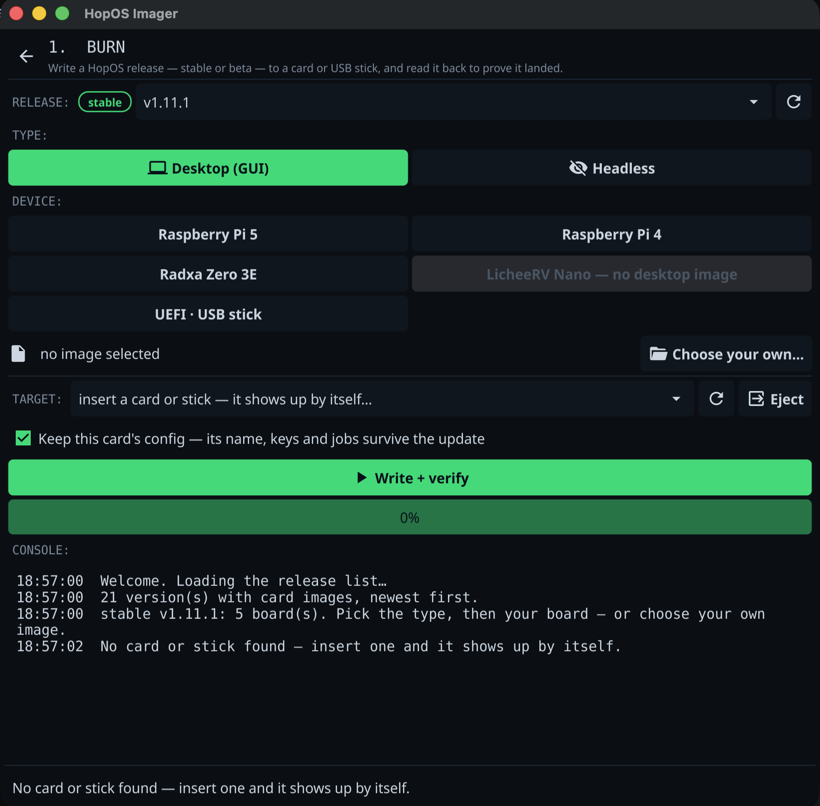
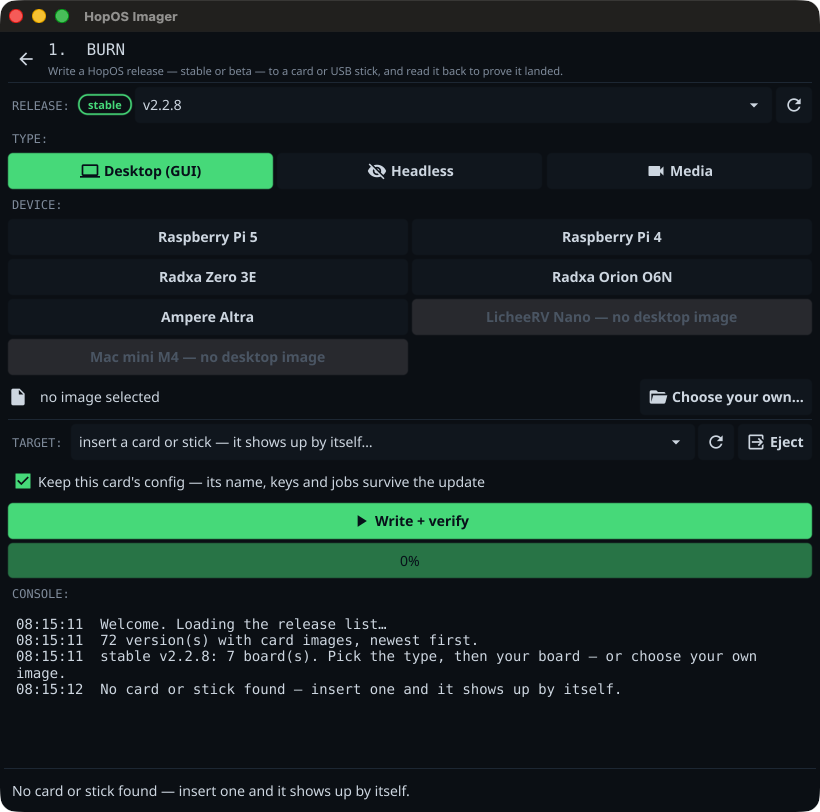
BURN kent drie smaken: Desktop, Headless en Media
HopOS v2.2.8 levert een derde smaak, hopos-o6n-media.img.gz: de GUI plus de
video-codec (Linlon V8 VPU), USB-optische drives en de codec-ABI — net als
headless een link-grens, geen instelling. De parser kende alleen -headless, dus
zonder dit stond "o6n-media" als los board in het grid, onder Desktop.

Nu is er een derde knop, Media, en draagt het gekozen image een media-tag in
fosfor. Media heeft dezelfde config als desktop; het config-venster kan het
verschil dus niet zien, en voor die ene tag beslist de naam mee — maar alleen
bovenop een config die beeld claimt.

De naamconventie staat op één plek: release.SplitFlavor vervangt de
ongebruikte release.Flavor, die media ook niet kende. En de twee nieuwe UEFI-
boards van dezelfde release staan bij naam in het grid: Radxa Orion O6N en
Ampere Altra, ná de Zero 3E en vóór de headless-only boards. "uefi" blijft in
de lijst voor oudere versies die de generieke stick nog dragen.

diff --git a/main.go b/main.go
@@ -80,12 +80,12 @@ const bunny = `   (\(\
    o_(")(")   --------------
               the Go-only OS`
 
-// boardRow is één board uit de release: dezelfde kaart in (maximaal) twee
+// boardRow is één board uit de release: dezelfde kaart in (maximaal) drie
 // smaken. De knoppen tonen boards; de smaak-keuze erboven kiest het asset.
 type boardRow struct {
 	id       string
 	display  string
-	byFlavor map[string]release.Asset // "desktop" / "headless"
+	byFlavor map[string]release.Asset // "desktop" / "headless" / "media"
 }
 
 // boardNames maakt van de asset-id's mensennamen; onbekende id's tonen de id
@@ -94,31 +94,33 @@ var boardNames = map[string]string{
 	"rpi5":        "Raspberry Pi 5",
 	"rpi4":        "Raspberry Pi 4",
 	"radxa-zero3": "Radxa Zero 3E",
+	"o6n":         "Radxa Orion O6N",
+	"altra":       "Ampere Altra",
 	"licheerv":    "LicheeRV Nano",
 	"m4":          "Mac mini M4",
 	"uefi":        "UEFI · USB stick",
 }
 
-var boardOrder = []string{"rpi5", "rpi4", "radxa-zero3", "licheerv", "m4", "uefi"}
+var boardOrder = []string{"rpi5", "rpi4", "radxa-zero3", "o6n", "altra", "licheerv", "m4", "uefi"}
 
 type ui struct {
 	win fyne.Window
 
 	// BURN
-	releases                []release.Release
-	relRow                  *fyne.Container // de regel bovenin, herschikt als de pil verschijnt
-	relChan                 *tagPill        // stable of beta, gekleurd
-	relSel                  *widget.Select  // het versienummer erachter — en de keuze
-	relTag                  string
-	btnDesktop, btnHeadless *widget.Button
-	flavorVal               string
-	boardBox                *fyne.Container
-	boards                  []boardRow
-	selBoard                string
-	imageLbl                *widget.Label
-	imageTags               *fyne.Container
-	imagePath               string
-	keepCfg                 *widget.Check
+	releases   []release.Release
+	relRow     *fyne.Container // de regel bovenin, herschikt als de pil verschijnt
+	relChan    *tagPill        // stable of beta, gekleurd
+	relSel     *widget.Select  // het versienummer erachter — en de keuze
+	relTag     string
+	flavorBtns map[string]*widget.Button // "desktop" / "headless" / "media"
+	flavorVal  string
+	boardBox   *fyne.Container
+	boards     []boardRow
+	selBoard   string
+	imageLbl   *widget.Label
+	imageTags  *fyne.Container
+	imagePath  string
+	keepCfg    *widget.Check
 
 	// CONFIGURE
 	cfgEdit   *cfgEditor // gekleurd tekstveld (editor.go) — altijd bewerkbaar
@@ -382,13 +384,21 @@ func (u *ui) burnTab() fyne.CanvasObject {
 		u.relSel,
 	)
 
-	// Twee ONMISKENBARE knoppen (Derek 06-08: "die keuze moet echt
+	// ONMISKENBARE knoppen (Derek 06-08: "die keuze moet echt
 	// duidelijker!"): de gekozen smaak staat gevuld fosforgroen, de andere
-	// panel-grijs — een segmented control, geen radiootje.
-	u.btnDesktop = widget.NewButtonWithIcon("Desktop (GUI)", theme.ComputerIcon(), func() { u.setFlavor("desktop") })
-	u.btnHeadless = widget.NewButtonWithIcon("Headless", theme.VisibilityOffIcon(), func() { u.setFlavor("headless") })
+	// panel-grijs — een segmented control, geen radiootje. Media is de derde
+	// sinds HopOS v2.2.8: de GUI plus video-codec en optische drives, en net
+	// als headless een link-grens, geen instelling.
+	u.flavorBtns = map[string]*widget.Button{
+		"desktop":  widget.NewButtonWithIcon("Desktop (GUI)", theme.ComputerIcon(), func() { u.setFlavor("desktop") }),
+		"headless": widget.NewButtonWithIcon("Headless", theme.VisibilityOffIcon(), func() { u.setFlavor("headless") }),
+		"media":    widget.NewButtonWithIcon("Media", theme.MediaVideoIcon(), func() { u.setFlavor("media") }),
+	}
 	u.flavorVal = "desktop" // de default van elke release
-	flavorRow := container.NewGridWithColumns(2, u.btnDesktop, u.btnHeadless)
+	flavorRow := container.NewGridWithColumns(len(flavorOrder))
+	for _, fl := range flavorOrder {
+		flavorRow.Add(u.flavorBtns[fl])
+	}
 
 	// Twee kolommen board-knoppen — afbeeldingen van de bordjes kunnen hier
 	// later in (ButtonWithIcon of een eigen kaartje per bord).
@@ -954,17 +964,17 @@ func channelColor(ch string) color.Color {
 	return colStable
 }
 
+// flavorOrder is de volgorde van de smaakknoppen: gewoon, kaal, en de GUI met
+// codec erbij.
+var flavorOrder = []string{"desktop", "headless", "media"}
+
 // parseBoards groepeert de release-assets per board — de naamconventie van
-// tools/release.sh: hopos-<board>[-headless].img[.gz].
+// tools/release.sh: hopos-<board>[-headless|-media].img[.gz].
 func parseBoards(imgs []release.Asset) []boardRow {
 	byID := map[string]*boardRow{}
 	var extra []string
 	for _, a := range imgs {
-		base := strings.TrimSuffix(strings.TrimSuffix(a.Name, ".gz"), ".img")
-		flavor := "desktop"
-		if strings.HasSuffix(base, "-headless") {
-			flavor, base = "headless", strings.TrimSuffix(base, "-headless")
-		}
+		base, flavor := release.SplitFlavor(a.Name)
 		id := strings.TrimPrefix(base, "hopos-")
 		b := byID[id]
 		if b == nil {
@@ -996,15 +1006,13 @@ func (u *ui) flavor() string { return u.flavorVal }
 // (HighImportance → fosforgroen uit het thema), de andere neutraal.
 func (u *ui) setFlavor(fl string) {
 	u.flavorVal = fl
-	u.btnDesktop.Importance = widget.MediumImportance
-	u.btnHeadless.Importance = widget.MediumImportance
-	if fl == "desktop" {
-		u.btnDesktop.Importance = widget.HighImportance
-	} else {
-		u.btnHeadless.Importance = widget.HighImportance
+	for f, btn := range u.flavorBtns {
+		btn.Importance = widget.MediumImportance
+		if f == fl {
+			btn.Importance = widget.HighImportance
+		}
+		btn.Refresh()
 	}
-	u.btnDesktop.Refresh()
-	u.btnHeadless.Refresh()
 	u.rebuildBoards()
 	// Stond er al een board geselecteerd, dan volgt het image de nieuwe smaak
 	// vanzelf — Type + Device sámen zijn de keuze.
@@ -1026,8 +1034,9 @@ func (u *ui) setFlavor(fl string) {
 
 // rebuildBoards vult het knoppengrid: twee kolommen boards, het gekozen board
 // gevuld groen. Een board zonder de gekozen smaak staat er wél maar
-// uitgeschakeld (de LicheeRV en de Mac mini zijn alleen headless) — verdwijnen
-// zou lezen als "board niet ondersteund", en dat is niet waar.
+// uitgeschakeld (de LicheeRV en de Mac mini zijn alleen headless, media is er
+// alleen waar een codec-blok zit) — verdwijnen zou lezen als "board niet
+// ondersteund", en dat is niet waar.
 func (u *ui) rebuildBoards() {
 	var cells []fyne.CanvasObject
 	for _, b := range u.boards {
@@ -1103,10 +1112,18 @@ func (u *ui) setImage(path string) {
 	// want die meet tekst op en dat mag alleen daar (zie loadConfig).
 	label, col := "no config window", colWarn
 	if w, err := cfgwin.Find(f); err == nil {
-		if content, cerr := cfgwin.Content(f, w); cerr == nil && isDesktop(content) {
+		content, cerr := cfgwin.Content(f, w)
+		switch {
+		// Media draagt dezelfde config als desktop — het verschil is gelinkte
+		// code, niet een regel in het venster. Hier mag de naam dus wél
+		// meebeslissen, maar alleen bovenop een config die beeld claimt.
+		case cerr == nil && isDesktop(content) && isMediaName(path):
+			label, col = "media", colMedia
+			u.log(fmt.Sprintf("Image ready: media — the GUI plus video codec and optical drives (config window at %#x).", w.Off))
+		case cerr == nil && isDesktop(content):
 			label, col = "desktop", colDesktop
 			u.log(fmt.Sprintf("Image ready: desktop — boots into the GUI (config window at %#x).", w.Off))
-		} else {
+		default:
 			label, col = "headless", colHeadless
 			u.log(fmt.Sprintf("Image ready: headless — API + network console (config window at %#x).", w.Off))
 		}
@@ -1118,6 +1135,12 @@ func (u *ui) setImage(path string) {
 		u.imageTags.Objects = []fyne.CanvasObject{pill(label, col)}
 		u.imageTags.Refresh()
 	})
+}
+
+// isMediaName herkent een media-image aan de naam uit tools/release.sh.
+func isMediaName(path string) bool {
+	_, fl := release.SplitFlavor(filepath.Base(path))
+	return fl == "media"
 }
 
 // isDesktop kijkt in de config zelf: een desktop-node is een node waar iets het

diff --git a/boards_test.go b/boards_test.go
@@ -1,0 +1,65 @@
+package main
+
+import (
+	"testing"
+
+	"github.com/xinix00/hop-imager/internal/release"
+)
+
+// De kaart-images van HopOS v2.2.8, de eerste release met drie smaken.
+func TestParseBoardsThreeFlavors(t *testing.T) {
+	var imgs []release.Asset
+	for _, n := range []string{
+		"hopos-altra-headless.img.gz", "hopos-altra.img.gz",
+		"hopos-licheerv-headless.img.gz", "hopos-m4-headless.img.gz",
+		"hopos-o6n-headless.img.gz", "hopos-o6n-media.img.gz", "hopos-o6n.img.gz",
+		"hopos-radxa-zero3-headless.img.gz", "hopos-radxa-zero3.img.gz",
+		"hopos-rpi4-headless.img.gz", "hopos-rpi4.img.gz",
+		"hopos-rpi5-headless.img.gz", "hopos-rpi5.img.gz",
+	} {
+		imgs = append(imgs, release.Asset{Name: n})
+	}
+	want := []struct {
+		id, display string
+		flavors     []string
+	}{
+		{"rpi5", "Raspberry Pi 5", []string{"desktop", "headless"}},
+		{"rpi4", "Raspberry Pi 4", []string{"desktop", "headless"}},
+		{"radxa-zero3", "Radxa Zero 3E", []string{"desktop", "headless"}},
+		{"o6n", "Radxa Orion O6N", []string{"desktop", "headless", "media"}},
+		{"altra", "Ampere Altra", []string{"desktop", "headless"}},
+		{"licheerv", "LicheeRV Nano", []string{"headless"}},
+		{"m4", "Mac mini M4", []string{"headless"}},
+	}
+	got := parseBoards(imgs)
+	if len(got) != len(want) {
+		t.Fatalf("got %d boards, want %d: %+v", len(got), len(want), got)
+	}
+	for i, w := range want {
+		b := got[i]
+		if b.id != w.id || b.display != w.display {
+			t.Errorf("board %d = %s (%s), want %s (%s)", i, b.id, b.display, w.id, w.display)
+		}
+		if len(b.byFlavor) != len(w.flavors) {
+			t.Errorf("%s: %d flavours, want %v", b.id, len(b.byFlavor), w.flavors)
+		}
+		for _, fl := range w.flavors {
+			if _, ok := b.byFlavor[fl]; !ok {
+				t.Errorf("%s: no %s image", b.id, fl)
+			}
+		}
+	}
+}
+
+func TestIsMediaName(t *testing.T) {
+	for name, want := range map[string]bool{
+		"/cache/hop-imager/hopos-o6n-media.img": true,
+		"hopos-o6n.img":                         false,
+		"hopos-o6n-headless.img":                false,
+		"my-media-card.img":                     false,
+	} {
+		if got := isMediaName(name); got != want {
+			t.Errorf("isMediaName(%q) = %v, want %v", name, got, want)
+		}
+	}
+}

diff --git a/internal/release/release.go b/internal/release/release.go
@@ -125,14 +125,19 @@ func Images(assets []Asset) []Asset {
 	return out
 }
 
-// Flavor leidt de smaak af uit de asset-naam — release.sh-conventie:
-// hopos-<board>[-headless].img.gz, geen suffix = desktop (gui). Ná download
-// verifieert de UI dit uit het config-venster zelf (main.flavorOf).
-func Flavor(name string) string {
-	if strings.Contains(name, "-headless") {
-		return "headless"
+// SplitFlavor splitst een asset-naam in de basis en de smaak — release.sh-
+// conventie: hopos-<board>[-headless|-media].img[.gz], geen suffix = desktop
+// (gui). Ná download verifieert de UI dit uit het config-venster zelf
+// (main.setImage); alleen media is daar niet te zien, want die draagt dezelfde
+// config als desktop.
+func SplitFlavor(name string) (base, flavor string) {
+	base = strings.TrimSuffix(strings.TrimSuffix(name, ".gz"), ".img")
+	for _, fl := range []string{"headless", "media"} {
+		if strings.HasSuffix(base, "-"+fl) {
+			return strings.TrimSuffix(base, "-"+fl), fl
+		}
 	}
-	return "desktop"
+	return base, "desktop"
 }
 
 // Download haalt een asset naar dir en geeft het lokale pad terug. Een

diff --git a/theme.go b/theme.go
@@ -35,10 +35,12 @@ var (
 	transparent = color.NRGBA{}
 )
 
-// De tag-kleuren volgen het palet: leaf = er komt beeld uit, wave = op
-// afstand (API/console), copper = let op.
+// De tag-kleuren volgen het palet: leaf = er komt beeld uit, phosphor = beeld
+// en meer (media: codec en disc erbij), wave = op afstand (API/console),
+// copper = let op.
 var (
 	colDesktop  = hopLeaf
+	colMedia    = hopPhosphor
 	colHeadless = hopWave
 	colWarn     = hopCopper
 )

diff --git a/.github/release-notes.md b/.github/release-notes.md
@@ -10,6 +10,10 @@ The desktop tool for [HopOS](https://gethop.org) nodes: **burn** a card, **confi
 
 ## Notes
 
+**Three types: Desktop, Headless, Media.** HopOS v2.2.8 ships a third flavour, and BURN has a third button for it: *Media* is the GUI plus the hardware video codec and USB optical drives — code that the Desktop and Headless images do not link at all. Today only the Radxa Orion O6N has a codec block to switch on, so under Media the other boards stay visible but disabled. The image tag says `media` in phosphor. Media carries the same config as Desktop, so for this one tag the tool goes by the file name (`*-media.img`) rather than the config alone.
+
+**The Radxa Orion O6N and Ampere Altra are in the board list.** Both boot through their own UEFI from a USB stick, and BURN calls them by name. Older HopOS versions that still carry the generic UEFI stick keep showing it.
+
 **Stable or beta, and which version.** HopOS ships betas too, so BURN opens on a line that says what you are about to write: the channel as a coloured tag — `stable` in phosphor, `beta` in copper — with the version number behind it. That number is the selector: every HopOS release carrying card images is in the list, newest first, so going back to the version your other nodes run is one click. The tool starts on the newest **stable**; a beta is something you choose, not something that happens to you. `./hop-imager -releases` prints the same list without opening a window.
 
 **The Mac mini M4 is in the board list.** HopOS builds a card image for it, so BURN calls it by its name — *Mac mini M4* — in its own place between the boards and the generic UEFI stick, instead of showing the bare asset id at the bottom. The port is headless-only for now, so under *Desktop* its button stays visible but disabled: that is a fact about the port, not a missing download.

diff --git a/README.md b/README.md
@@ -37,12 +37,14 @@ The tool opens on the **newest stable**. A beta is something you choose, not
 something that happens to you.
 
 Pick the **type** next: *Desktop* boots into the HopOS GUI, *Headless* is a
-node with no display code linked at all — API plus network console. Then pick
-your **board**; version, type and board together select the image, so switching
-one of the three keeps the other two and fetches the matching file. A board
-without that flavour stays visible but disabled (the LicheeRV Nano and the Mac
-mini M4 are headless-only — that is a fact about the port, not a missing
-download).
+node with no display code linked at all — API plus network console, and *Media*
+is the GUI plus the hardware video codec and USB optical drives, code the other
+two do not link. Then pick your **board**; version, type and board together
+select the image, so switching one of the three keeps the other two and fetches
+the matching file. A board without that flavour stays visible but disabled (the
+LicheeRV Nano and the Mac mini M4 are headless-only, and only the Radxa Orion
+O6N has a codec block to switch on — that is a fact about the port, not a
+missing download).
 
 The image is downloaded once and cached. Insert a card or a USB stick and it
 appears in **TARGET** by itself; if it is the only one, it is already selected.
